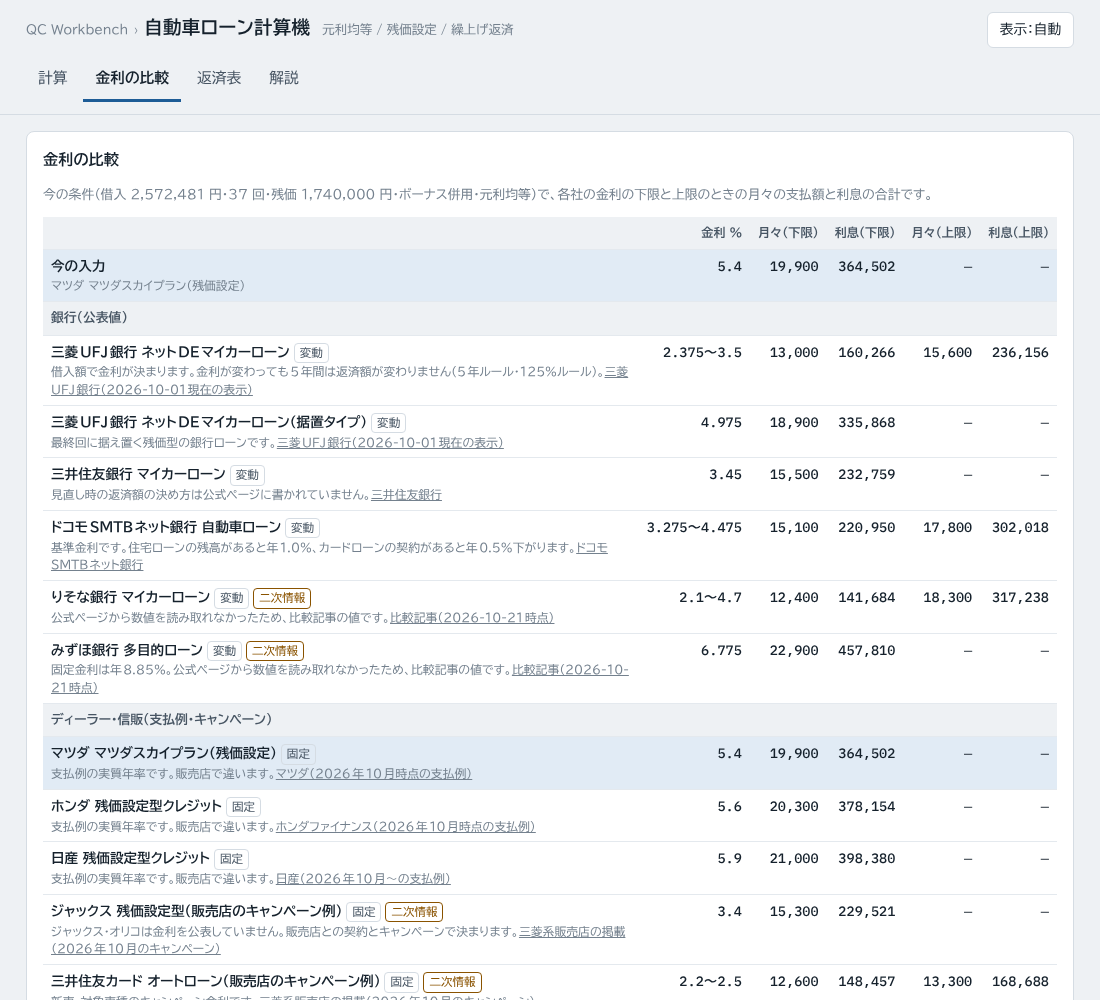
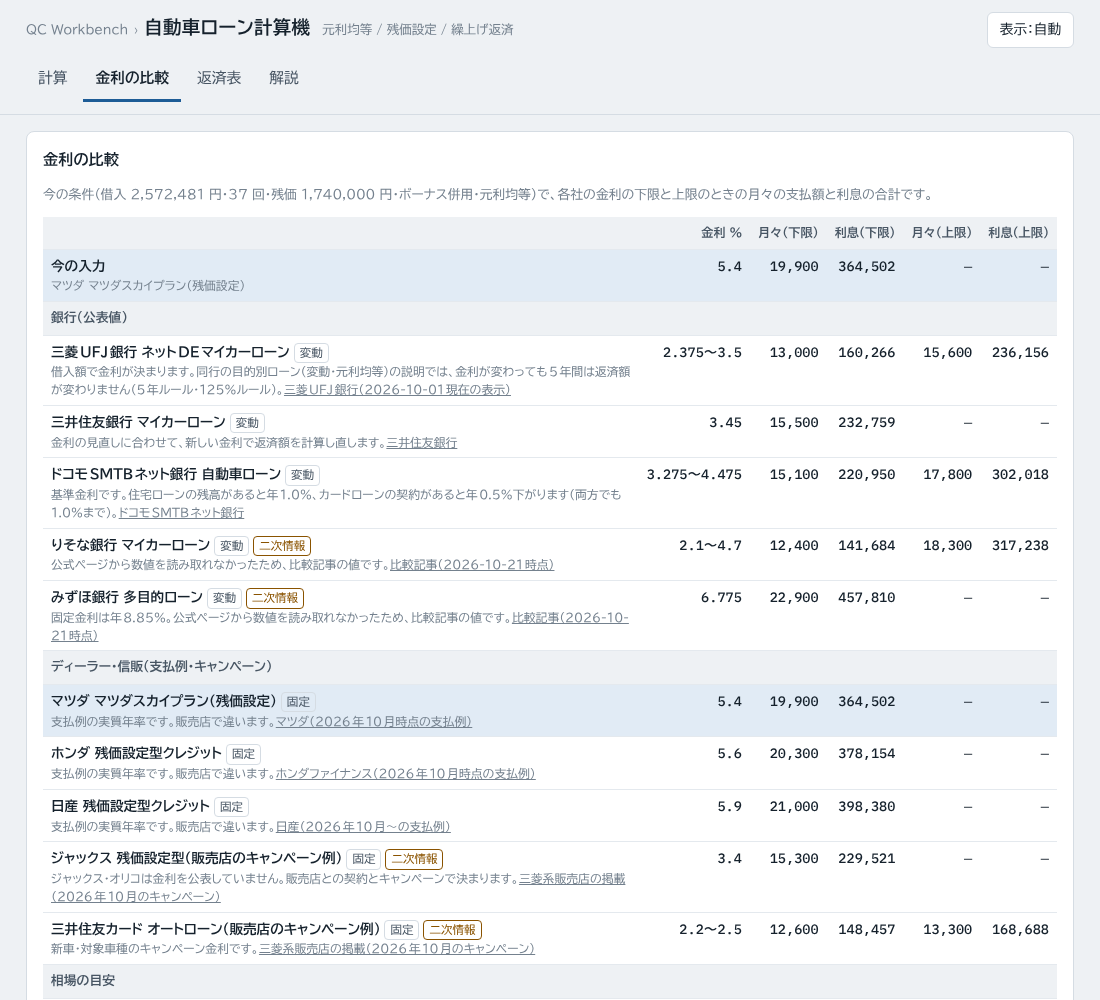
5年ルールの出し直しを銀行の規定に合わせ、金利の例を直す

diff --git a/js/loan.js b/js/loan.js
@@ -157,8 +157,9 @@
       const apr = aprAt(k);
       // 金利が変わった回：毎回再計算なら、この回から均等額を出し直す
       if (rule === 'recalc' && k > 1 && apr !== aprAt(k - 1)) subs.forEach(s => { if (s.bal > 0 && [...s.pays].some(j => j >= k)) setLevel(s, k, false); });
-      // 5 年ルール：60 回ごとに出し直し、増えるときは前の 1.25 倍まで（それまでは金利が変わっても額は同じ）
-      if (rule === '5y125' && k > 1 && (k - 1) % 60 === 0) subs.forEach(s => {
+      // 5 年ルール：60 回目までは金利が変わっても額は同じ。61 回目に出し直し、その後は金利が変わるたびに出し直す。
+      // 増えるときは前の 1.25 倍まで
+      if (rule === '5y125' && (k === 61 || (k > 61 && apr !== aprAt(k - 1)))) subs.forEach(s => {
         if (!(s.bal > 0) || ![...s.pays].some(j => j >= k)) return;
         const old = s.A; setLevel(s, k, false);
         if (s.A > old * 1.25) { s.A = floorU(old * 1.25, u); s.capped = true; }
@@ -237,13 +238,11 @@
   const RATES_CHECKED = '2026-10-30';
   const PRESETS = [
     { id: 'mufg', group: 'bank', name: '三菱UFJ銀行 ネットDEマイカーローン', type: '変動', lo: 0.02375, hi: 0.035, rule: '5y125', official: true,
-      url: 'https://www.bk.mufg.jp/kariru/mycar/', src: '三菱UFJ銀行（2026-10-01現在の表示）', note: '借入額で金利が決まります。金利が変わっても5年間は返済額が変わりません（5年ルール・125%ルール）' },
-    { id: 'mufg-sue', group: 'bank', name: '三菱UFJ銀行 ネットDEマイカーローン（据置タイプ）', type: '変動', lo: 0.04975, hi: 0.04975, rule: '5y125', official: true,
-      url: 'https://www.bk.mufg.jp/kariru/mycar/', src: '三菱UFJ銀行（2026-10-01現在の表示）', note: '最終回に据え置く残価型の銀行ローンです' },
+      url: 'https://www.bk.mufg.jp/kariru/mycar/', src: '三菱UFJ銀行（2026-10-01現在の表示）', note: '借入額で金利が決まります。同行の目的別ローン（変動・元利均等）の説明では、金利が変わっても5年間は返済額が変わりません（5年ルール・125%ルール）' },
     { id: 'smbc', group: 'bank', name: '三井住友銀行 マイカーローン', type: '変動', lo: 0.0345, hi: 0.0345, official: true,
-      url: 'https://www.smbc.co.jp/kojin/mokuteki_loan/car/', src: '三井住友銀行', note: '見直し時の返済額の決め方は公式ページに書かれていません' },
+      url: 'https://www.smbc.co.jp/kojin/mokuteki_loan/car/', src: '三井住友銀行', rule: 'recalc', note: '金利の見直しに合わせて、新しい金利で返済額を計算し直します' },
     { id: 'docomo', group: 'bank', name: 'ドコモSMTBネット銀行 自動車ローン', type: '変動', lo: 0.03275, hi: 0.04475, official: true,
-      url: 'https://www.netbk.co.jp/contents/gen/lineup/loan/car/kinri/', src: 'ドコモSMTBネット銀行', note: '基準金利です。住宅ローンの残高があると年1.0%、カードローンの契約があると年0.5%下がります' },
+      url: 'https://www.netbk.co.jp/contents/gen/lineup/loan/car/kinri/', src: 'ドコモSMTBネット銀行', note: '基準金利です。住宅ローンの残高があると年1.0%、カードローンの契約があると年0.5%下がります（両方でも1.0%まで）' },
     { id: 'resona', group: 'bank', name: 'りそな銀行 マイカーローン', type: '変動', lo: 0.021, hi: 0.047, official: false,
       url: 'https://carmo-kun.jp/column/carloan/bank/', src: '比較記事（2026-10-21時点）', note: '公式ページから数値を読み取れなかったため、比較記事の値です' },
     { id: 'mizuho', group: 'bank', name: 'みずほ銀行 多目的ローン', type: '変動', lo: 0.06775, hi: 0.06775, official: false,

diff --git a/js/app.js b/js/app.js
@@ -146,7 +146,7 @@
     $('cPresetNote').innerHTML = p ? `${esc(p.note)}。出典：<a href="${esc(p.url)}" target="_blank" rel="noopener">${esc(p.src)}</a>（${esc(LC.RATES_CHECKED)} 確認）` + (p.hi > p.lo ? `。範囲 ${pct(p.lo)}〜${pct(p.hi)}% のうち、下限を入れています。` : '') : '販売店の見積書や銀行の審査結果の金利（実質年率）を入れてください。「金利の比較」タブで各社の例を比べられます。';
     $('cBnote').textContent = st.c.bmode === 'amount' ? (st.c.binc === 'add' ? 'ディーラーのローンの形です。ボーナス月は「月額＋この額」を払い、残りを月額で割ります。' : 'ボーナス月は月額の代わりにこの額だけ払います（マツダの支払例の形）。') :
       st.c.bmode === 'share' ? '銀行の形です。借入額のうちこの額を、年 2 回のボーナス月だけで返します（ふつう借入額の 50% まで）。' : '';
-    $('cRuleNote').textContent = st.c.rule === '5y125' ? '金利が変わっても 60 回（5 年）は返済額が変わらず、利息と元金の内訳だけが変わります。61 回目に出し直し、増えるときは前の 1.25 倍までです。払いきれない利息は最終回にまとめて払います（三菱UFJ銀行など）。' : '金利が変わった回から、残りの元金を残りの回数で返す額に出し直します。';
+    $('cRuleNote').textContent = st.c.rule === '5y125' ? '金利が変わっても 60 回（5 年）は返済額が変わらず、利息と元金の内訳だけが変わります。61 回目に出し直し、その後は金利が変わるたびに出し直します。増えるときは前の 1.25 倍までです。払いきれない利息は最終回にまとめて払います（三菱UFJ銀行の目的別ローンなど）。' : '金利が変わった回から、残りの元金を残りの回数で返す額に出し直します。';
     cCopy.length = 0; R = null;
     const msgs = [];
     const clear = () => { ['cSum', 'cKpi', 'cFig', 'cBars', 'cCmp', 'cLegend', 'cFigNote'].forEach(id => { $(id).innerHTML = ''; }); };
@@ -181,7 +181,7 @@
     if (o.n > 120) msgs.push(['info', '自動車ローンの期間は多くが 10 年（120 回）以内です。']);
     if (ppErr) msgs.push(['warn', ppErr]);
     if (V.rate && V.rate.unpaidEnd > 0) msgs.push(['warn', `金利が上がって利息が返済額を超え、払いきれない利息（未払利息）が最大 ${yen(V.rate.unpaidEnd)} 円たまります。最終回にまとめて払うことになります。`]);
-    if (V.rate && V.rate.capped) msgs.push(['warn', '61 回目の返済額が 125% ルールの上限で止まっています。残りの元金と利息は最終回にまとめて払います。']);
+    if (V.rate && V.rate.capped) msgs.push(['warn', '61 回目以降の返済額が 125% ルールの上限で止まっています。残りの元金と利息は最終回にまとめて払います。']);
     if (o.bonus.mode === 'share' && o.bonus.share > (o.P - o.balloon) * 0.5) msgs.push(['info', 'ボーナスで返す分が借入額の 50% を超えています。多くの銀行は 50% までです。']);
     showMsgs(msgs);
 

diff --git a/index.html b/index.html
@@ -500,12 +500,13 @@ details.opt .inner { display: flex; flex-direction: column; gap: 12px; }
 </tr>
 <tr>
 <td>5 年ルール・125% ルール</td>
-<td>金利が変わっても 60 回（5 年）は返済額が変わらず、元金と利息の内訳だけが変わります。61 回目に出し直し、増えるときは前の 1.25 倍までです。利息が返済額を超えると、払いきれない利息（未払利息）は次の回に繰り越し、最後に残った元金と利息は最終回にまとめて払います</td>
+<td>金利が変わっても 60 回（5 年）は返済額が変わらず、元金と利息の内訳だけが変わります。61 回目に出し直し、その後は金利が変わるたびに出し直します。増えるときは前の 1.25 倍までです。利息が返済額を超えると、払いきれない利息（未払利息）は次の回に繰り越し、最後に残った元金と利息は最終回にまとめて払います</td>
 </tr>
 </tbody>
 </table>
 <ul>
-<li>三菱UFJ銀行の目的別ローン（変動・元利均等）は 5 年ルール・125% ルールです。「10 月 1 日を 1 回経過するごとに 1 年」と数えるので、実際の区切りは初回から 60 回ちょうどではありません。このツールは 60 回ごとで近似しています</li>
+<li>三菱UFJ銀行の目的別ローン（変動・元利均等）の説明は 5 年ルール・125% ルールです。「10 月 1 日を 1 回経過するごとに 1 年」と数えるので、実際の 5 年の区切りは初回から 60 回ちょうどではありません。このツールは 60 回で近似しています</li>
+<li>三井住友銀行のマイカーローンは、金利の見直しに合わせて新しい金利で返済額を計算し直します（その都度計算し直す形）</li>
 <li>返済額の決め方は銀行ごとに違います。契約書や商品概要説明書で確かめてください</li>
 </ul>
 <h2>金利の例について</h2>

diff --git a/tests/test.js b/tests/test.js
@@ -97,6 +97,10 @@ const ann = (P, r, m) => r === 0 ? P / m : P * r / (1 - Math.pow(1 + r, -m));
   ok('5 年ルール 60 回目まで同額', f.rows.slice(0, 59).every(x => x.pay === f.A));
   ok('5 年ルール 61 回目で増額', f.rows[60].pay > f.A);
   ok('5 年ルール 増額は 1.25 倍まで', f.rows[60].pay <= Math.floor(f.A * 1.25) + 1);
+  // 61 回目のあとは、金利が変わるたびに出し直す（三菱UFJ銀行「お借入後5回目の10月1日を基準とした見直しにて毎回の返済額を再計算」）
+  const g = run(Object.assign({}, base, { n: 120, rateChanges: [{ k: 13, apr: 0.025 }, { k: 73, apr: 0.03 }], rule: '5y125' }));
+  ok('5 年ルール 61 回目以降の金利の変化で出し直す', g.rows[72].pay > g.rows[71].pay);
+  ok('5 年ルール 61〜72 回目は同額', g.rows.slice(60, 72).every(x => x.pay === g.rows[60].pay));
   // 急な上昇：利息が返済額を超えると未払利息が出る
   const h = run({ P: 3000000, apr: 0.01, n: 120, rateChanges: [{ k: 2, apr: 0.15 }], rule: '5y125' });
   ok('5 年ルール 未払利息が出る', h.unpaidEnd > 0);

diff --git a/sw.js b/sw.js
@@ -1,6 +1,6 @@
 // 自動車ローン計算機の Service Worker
 // 公開ファイルを更新したら VERSION を上げる。古いキャッシュは activate 時に削除される
-const VERSION = 'v1.0.0';
+const VERSION = 'v1.0.1';
 const APP_CACHE = `car-loan-calc-${VERSION}`;
 const FONT_CACHE = 'car-loan-calc-fonts';
 

diff --git a/README.md b/README.md
@@ -65,7 +65,7 @@
 - ボーナス（銀行の形）：ボーナス返済分を、ボーナス月だけで返す均等額にする。利息は前のボーナス月からの月数で月割り
 - 元金均等：毎回の元金 = P ÷ n（単位未満は切捨て、差は最終回）、利息は残高 × r
 - 繰上げ返済：指定した回の支払のあと、毎月分の元金に充てる。期間短縮は月額をそのままにして回数を減らし、返済額軽減は残りの回数で月額を出し直す
-- 金利の変化：その都度計算し直す（変わった回から残りを均等額に）か、5 年ルール・125% ルール（60 回ごとに出し直し、増額は前の 1.25 倍まで、払いきれない利息は繰り越して最終回にまとめて払う）
+- 金利の変化：その都度計算し直す（変わった回から残りを均等額に）か、5 年ルール・125% ルール（60 回目までは同額、61 回目とその後の金利の変化のたびに出し直し、増額は前の 1.25 倍まで、払いきれない利息は繰り越して最終回にまとめて払う）
 
 式の意味と例は、ツールの「解説」タブを見てください。
 
@@ -77,7 +77,8 @@
 - 事務手数料・所有権留保の手数料・繰上げ返済の手数料は入れていません。銀行の保証料は多くが金利に含まれています
 - 銀行のボーナス返済は、初回ボーナスまでの月数が契約日で変わるため、ボーナス月の額が数 % 違うことがあります（下の「計算の検証」）
 - 残価（据置）があるローンの一部繰上げ返済は、会社ごとに扱いが違うため計算しません。信販会社のローンは一部の繰上げ返済ができないことがあります
-- 5 年ルールの区切りは 60 回ごとで近似しています。三菱UFJ銀行は「10 月 1 日を 1 回経過するごとに 1 年」と数えます
+- 5 年ルールの区切りは 60 回で近似しています。三菱UFJ銀行は「10 月 1 日を 1 回経過するごとに 1 年」と数えます
+- 元金だけを据え置いて利息だけを払う期間があるローン（三菱UFJ銀行の据置タイプなど）は計算できません。このツールの据置は、最終回に残価を払う形です
 - 残価は、車を返すときの走行距離・傷の条件を満たさないと追加の支払が出ます
 - 契約の判断は、販売店・銀行が出す返済予定表と見積書の数値で行ってください
 
@@ -93,7 +94,7 @@
   - マツダスカイプラン 3 例（3 年・5 年・7 年）：月額・最終回 1 回前・分割支払金合計が 1 円まで一致
   - ホンダ 残価設定型クレジット（N-BOX・5 年）：月額は一致、初回は公表 16,138 円・計算 16,139 円（1 円差）
   - 日産 残価設定型クレジット（ノート 2 例）：月額は一致、最終回 1 回前は公表より 80 円・159 円少ない（0.35%・0.71%）。元金の表記（所要資金）が現金価格 − 頭金と合わないなど、前提が公表されていない部分があります。もう 1 例（ノート X FOUR）は月額の 100 円未満の決め方が違い（公表 19,400 円・計算 19,500 円）、照合から外しています
-- **手計算できる代表点**：金利 0%、100 円単位の丸めと端数の調整、据置の月額の式、金利の変化（その都度計算・5 年ルールの据え置き・125% の上限・未払利息）、繰上げ返済（期間短縮で回数が減る、返済額軽減の新しい月額、金利変化と組み合わせたとき）、元金均等の初回
+- **手計算できる代表点**：金利 0%、100 円単位の丸めと端数の調整、据置の月額の式、金利の変化（その都度計算・5 年ルールの据え置き・61 回目以降の出し直し・125% の上限・未払利息）、繰上げ返済（期間短縮で回数が減る、返済額軽減の新しい月額、金利変化と組み合わせたとき）、元金均等の初回
 - **入力の誤り**：借入額 0、回数 1、金利 30%、残価が借入額以上、ボーナス月が 1 つ、元金均等に残価、残価のあるローンの一部繰上げ
 - **金利の例**：すべてに出典の URL があり、値が範囲内か
 

diff --git a/docs/explanation.md b/docs/explanation.md
@@ -89,9 +89,10 @@
 | 返済額の決め方 | 内容 |
 |---|---|
 | その都度計算し直す | 金利が変わった回から、残りの元金を残りの回数で返す額に出し直します |
-| 5 年ルール・125% ルール | 金利が変わっても 60 回（5 年）は返済額が変わらず、元金と利息の内訳だけが変わります。61 回目に出し直し、増えるときは前の 1.25 倍までです。利息が返済額を超えると、払いきれない利息（未払利息）は次の回に繰り越し、最後に残った元金と利息は最終回にまとめて払います |
+| 5 年ルール・125% ルール | 金利が変わっても 60 回（5 年）は返済額が変わらず、元金と利息の内訳だけが変わります。61 回目に出し直し、その後は金利が変わるたびに出し直します。増えるときは前の 1.25 倍までです。利息が返済額を超えると、払いきれない利息（未払利息）は次の回に繰り越し、最後に残った元金と利息は最終回にまとめて払います |
 
-- 三菱UFJ銀行の目的別ローン（変動・元利均等）は 5 年ルール・125% ルールです。「10 月 1 日を 1 回経過するごとに 1 年」と数えるので、実際の区切りは初回から 60 回ちょうどではありません。このツールは 60 回ごとで近似しています
+- 三菱UFJ銀行の目的別ローン（変動・元利均等）の説明は 5 年ルール・125% ルールです。「10 月 1 日を 1 回経過するごとに 1 年」と数えるので、実際の 5 年の区切りは初回から 60 回ちょうどではありません。このツールは 60 回で近似しています
+- 三井住友銀行のマイカーローンは、金利の見直しに合わせて新しい金利で返済額を計算し直します（その都度計算し直す形）
 - 返済額の決め方は銀行ごとに違います。契約書や商品概要説明書で確かめてください
 
 ## 金利の例について

diff --git a/DEVELOPMENT.md b/DEVELOPMENT.md
@@ -45,7 +45,7 @@ node tests/test.js    # 不一致があれば終了コード 1
 - **均等額**：`levelPayment` で、その時点の金利がこの先も続くとして求め、単位未満を切り捨てます
 - **端数の調整**：調整する回の額は `solveAdjust` で、その後を実際に進めて最終回が目標（残価、または月額）になる額を割線法で求めます。公表の支払例（マツダ）はこの方法で 1 円まで一致します
 - **ボーナス**：`amount` はボーナス月の額を固定（`include: 'add'` は月額に加算、`'total'` はその月は月額の代わり）。`share` は借入額の一部を別のローンとしてボーナス月だけで返します。据置があるときは最終回にボーナスを足しません
-- **金利の変化**：`rateChanges` は「その回の利息から適用」。`recalc` は変わった回に均等額を出し直し、`5y125` は 61・121 回目に出し直して 1.25 倍で頭打ち、払いきれない利息は `unpaid` に繰り越して最終回で払います
+- **金利の変化**：`rateChanges` は「その回の利息から適用」。`recalc` は変わった回に均等額を出し直し、`5y125` は 61 回目と、その後の金利の変化のたびに出し直して 1.25 倍で頭打ち、払いきれない利息は `unpaid` に繰り越して最終回で払います
 - **繰上げ返済**：毎月分の元金に充てます。期間短縮は、その時点の金利で月額のまま返し切る回を新しい最終回にし（あとで金利が変わって出し直すときも、この最終回まで）、返済額軽減は残りの回数で均等額を出し直します。据置があるときは計算しません
 - **入力の保存**：localStorage のキー `car-loan-calc-inputs`。読み書きはすべて try/catch で囲み、保存できない環境でも動きます
 - **テーマ**：QC Workbench の全ツールで共通のキー `qc-workbench-theme`
